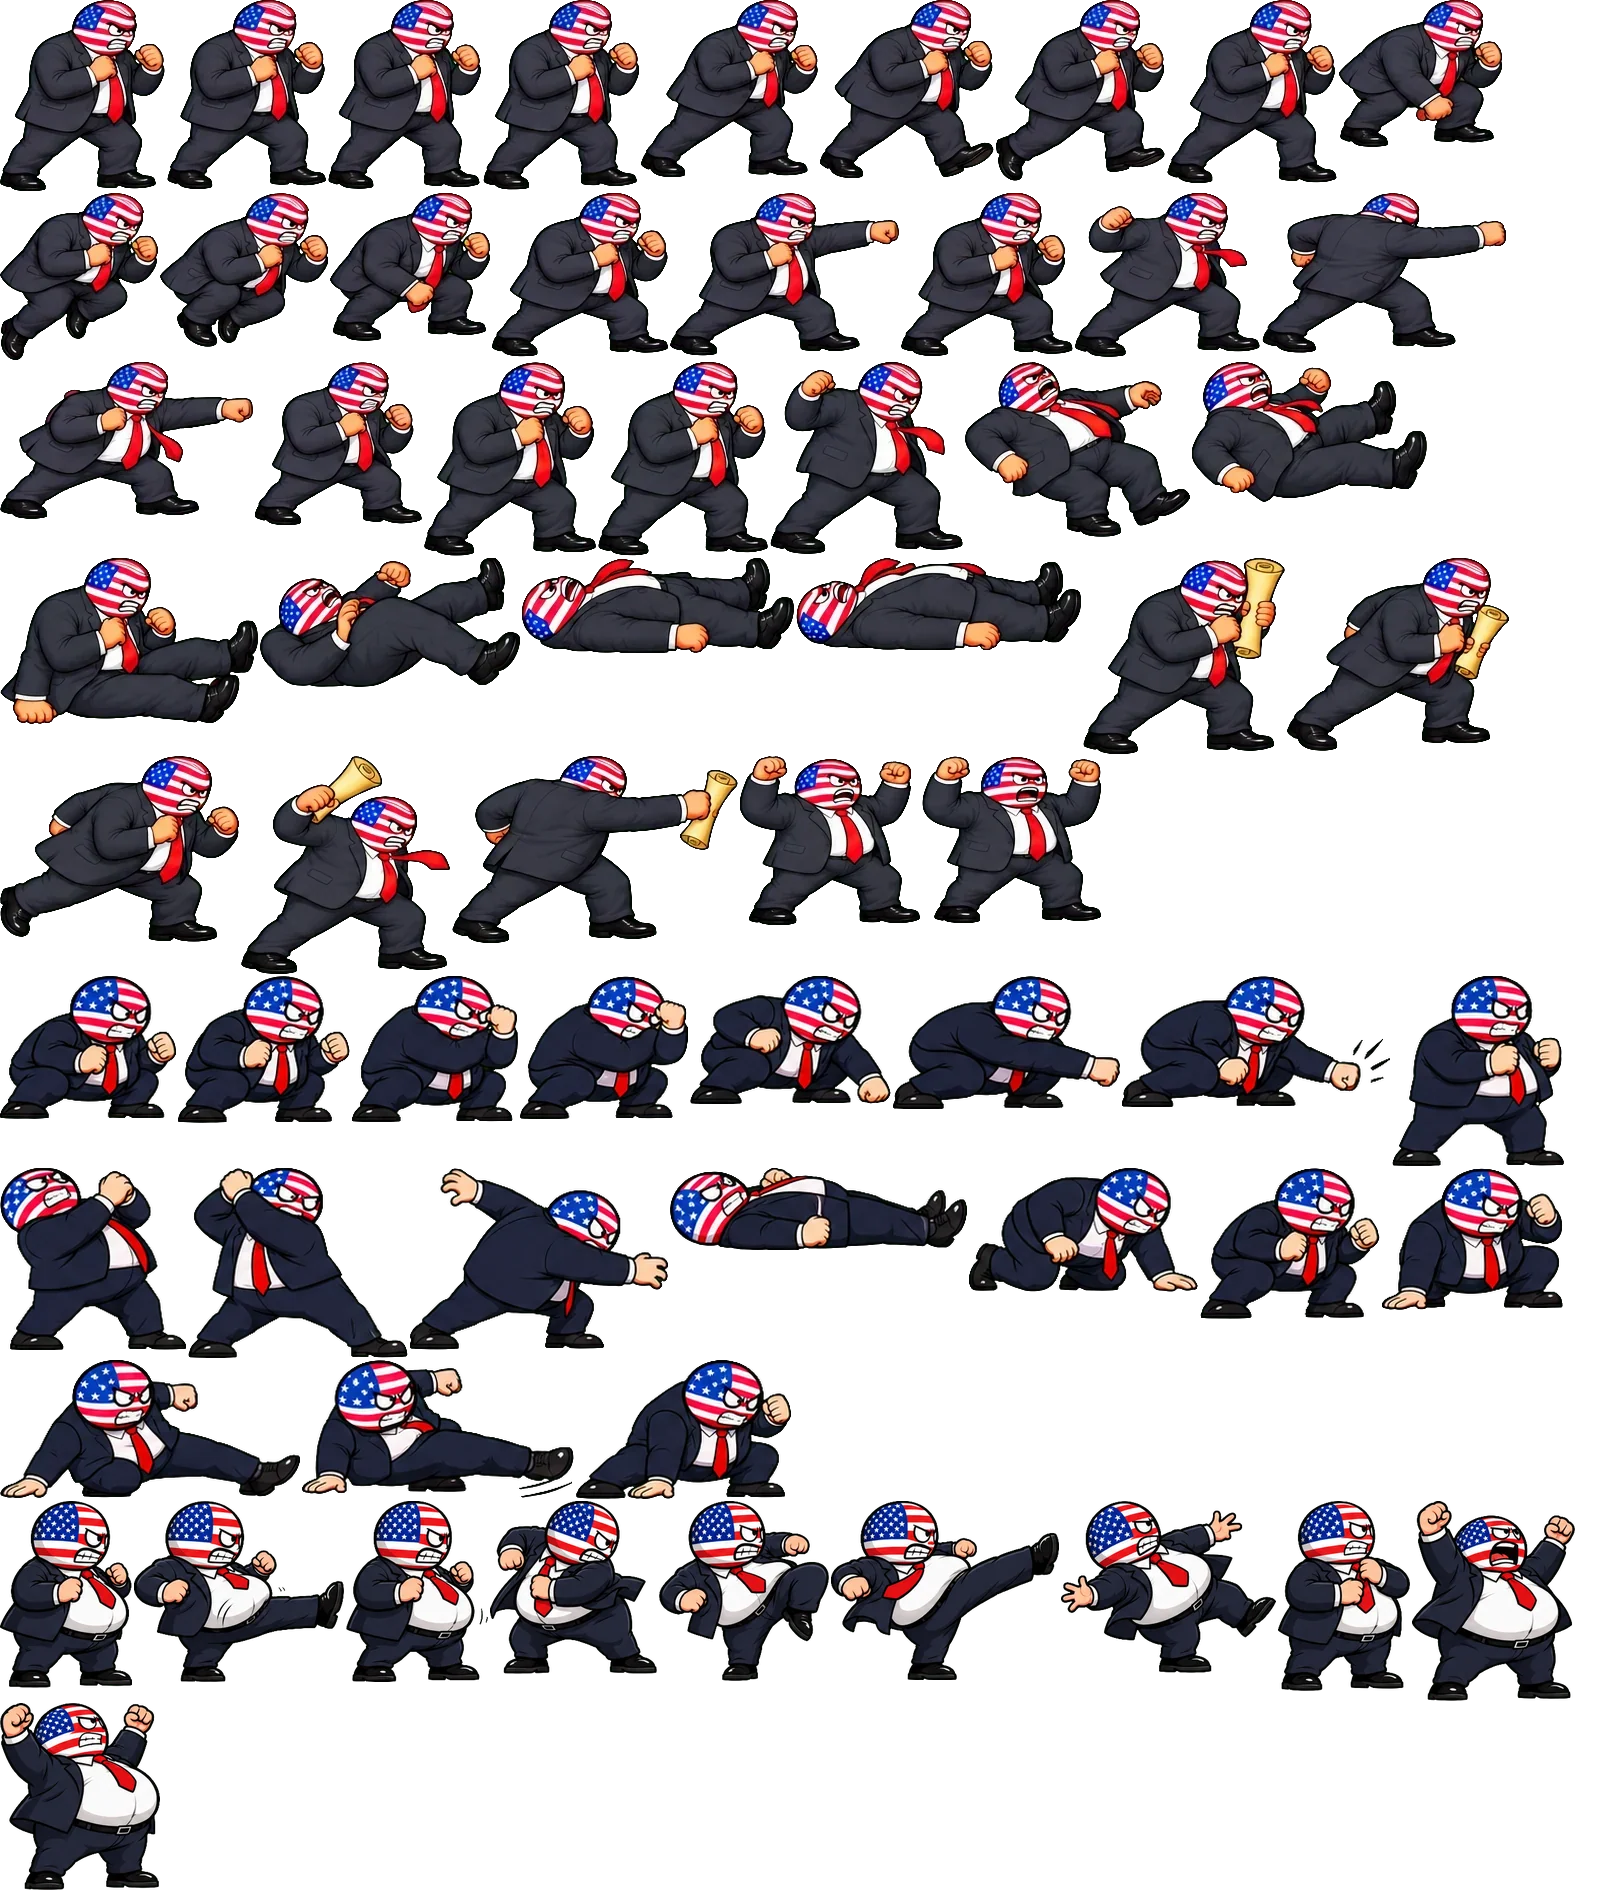
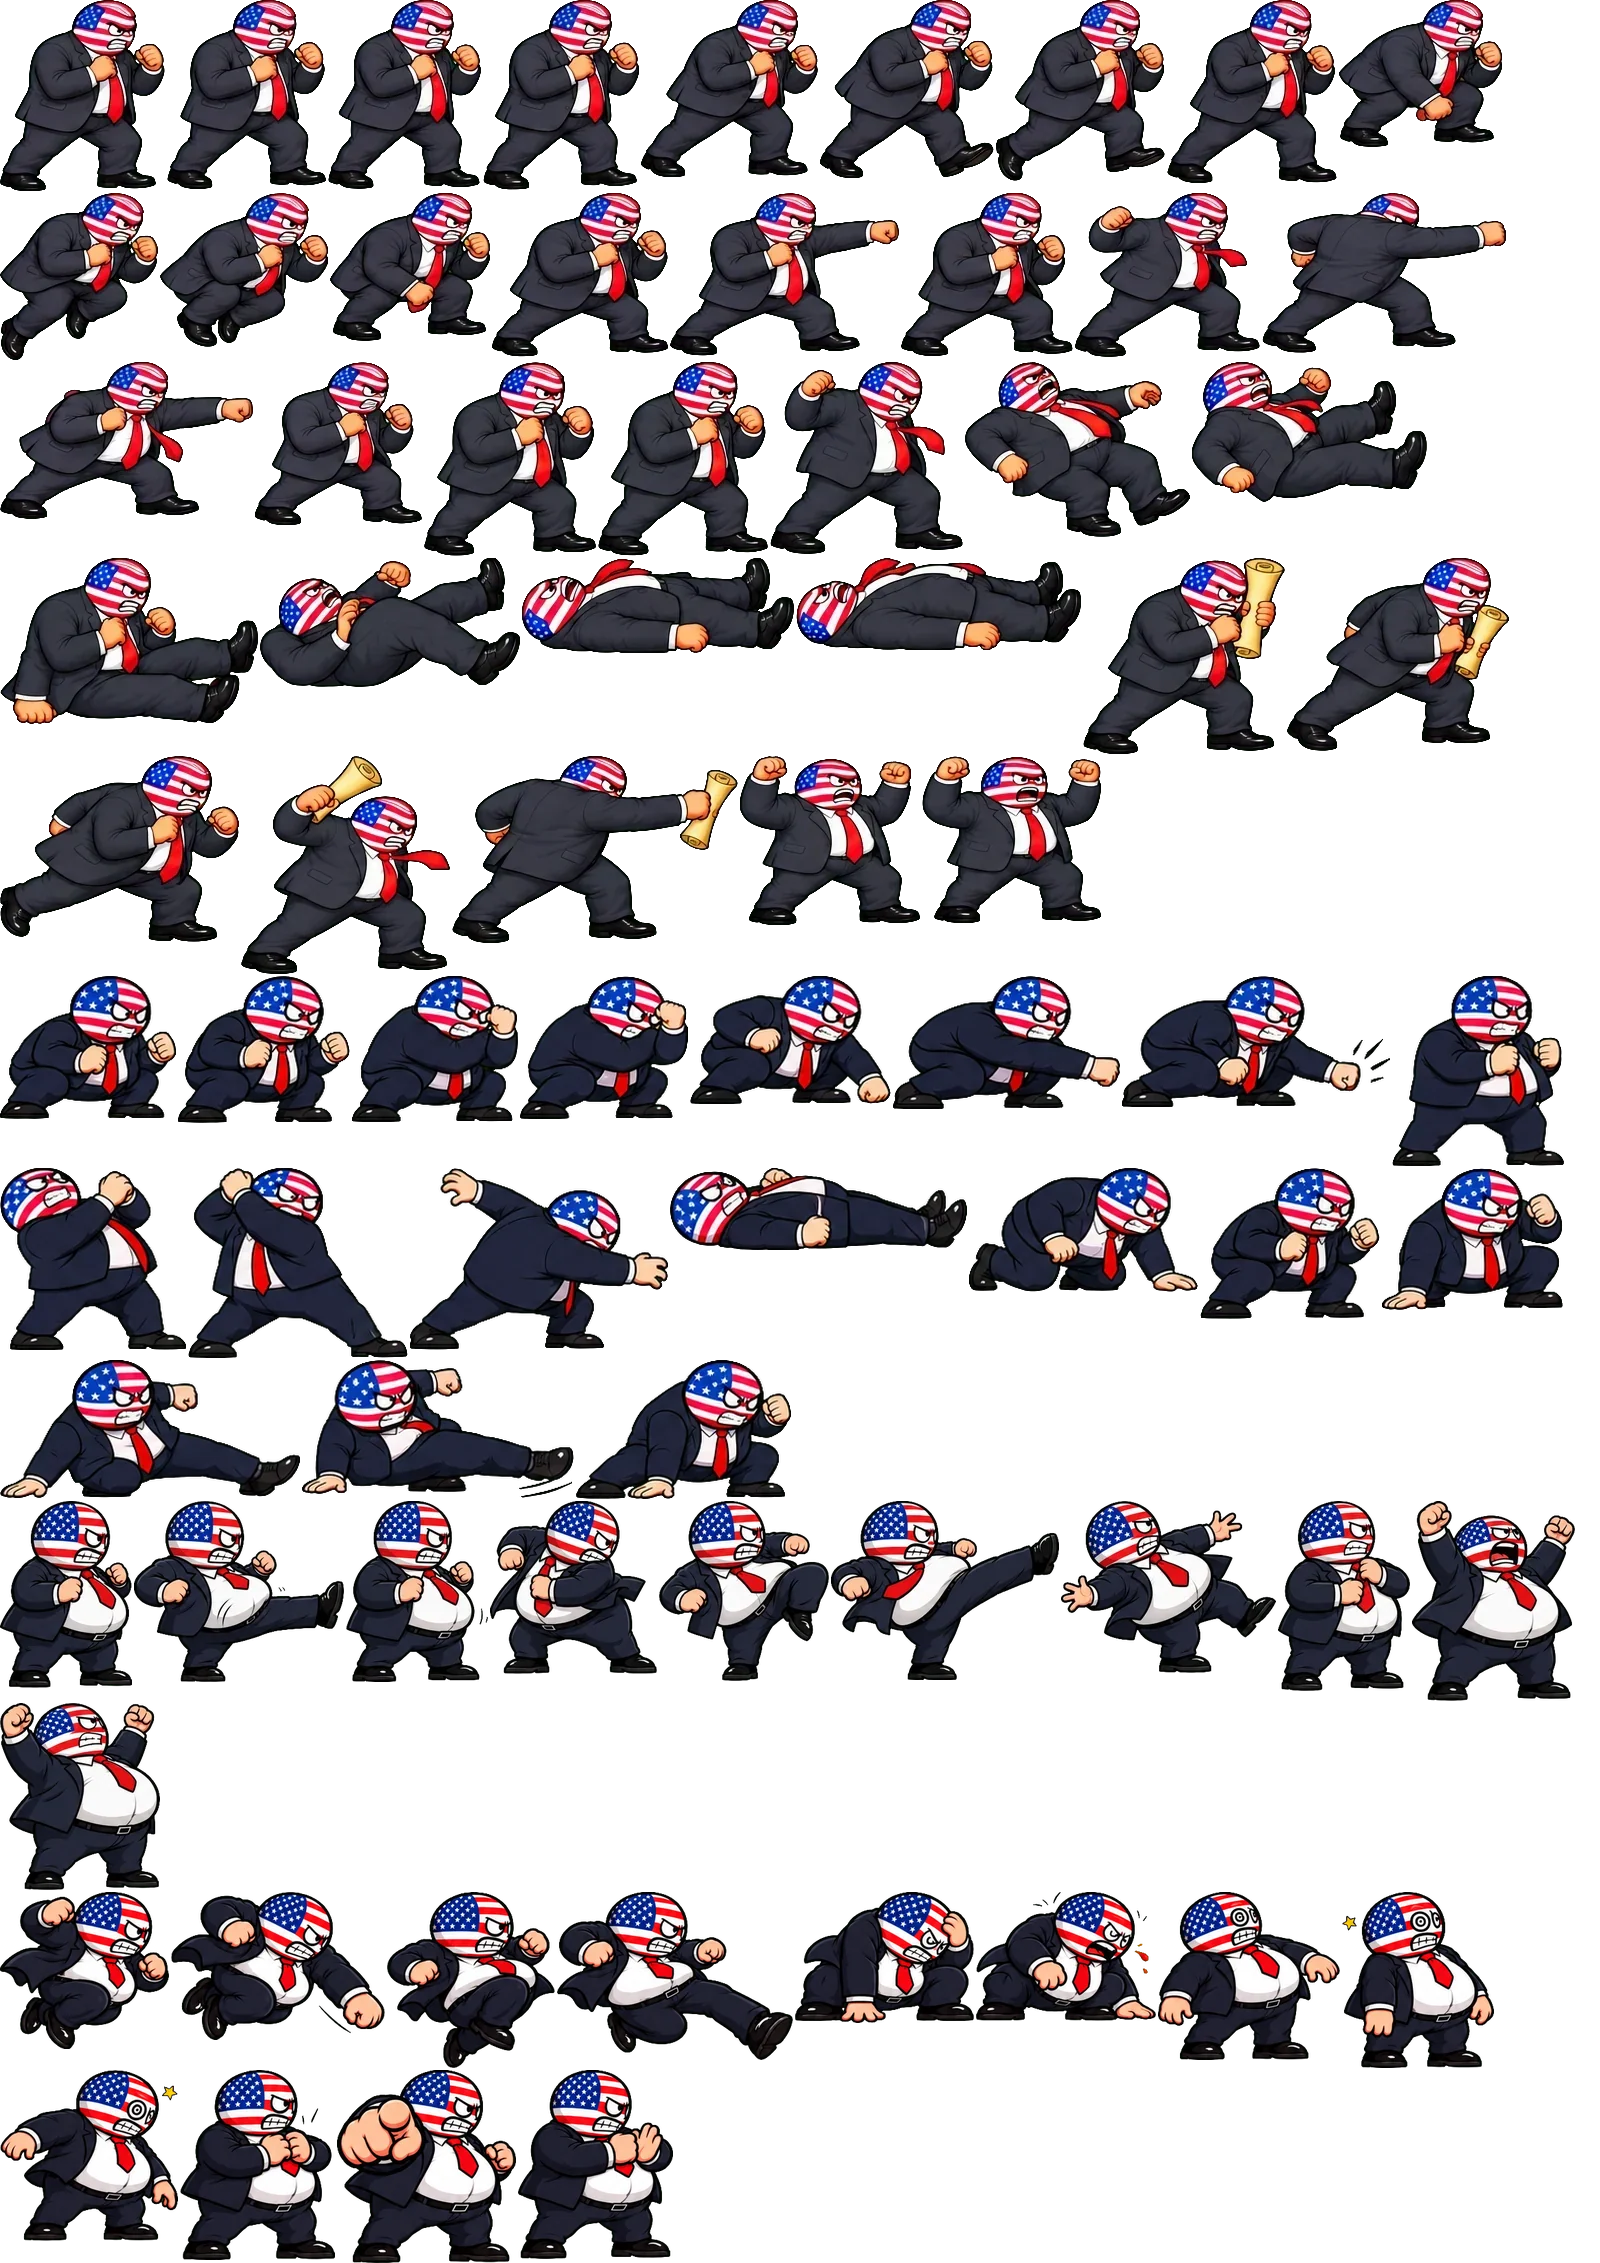
Presidents Brawl: Mister USA jump attacks, crouch hit, dizzy and entrance frames
Claude-Session: https://claude.ai/code/session_01HtMgEDxgy3YeKCDKp7REeJ

diff --git a/brawl/index.html b/brawl/index.html
@@ -583,7 +583,7 @@ function limb(c,a,b,col,w,bend){c.strokeStyle=col;c.lineWidth=w;c.lineCap='round
 
 const SPRITES={};
 function addSprite(id,meta,b64,scale){const img=new Image();const o={img,meta,scale,ok:false};img.onload=()=>{o.ok=true;if(window.__redrawCards)window.__redrawCards()};img.src=b64;SPRITES[id]=o}
-addSprite('usa',{"idle": [[0, 0, 165, 191, 74.1], [167, 0, 159, 189, 74.7], [328, 0, 153, 189, 71.9], [483, 0, 156, 190, 71.9]], "walk": [[641, 0, 177, 177, 81.5], [820, 0, 174, 178, 85.9], [996, 0, 169, 181, 79.5], [1167, 0, 170, 183, 82.2]], "jump": [[1339, 0, 163, 147, 84.9], [0, 193, 158, 167, 77.3], [160, 193, 168, 154, 84.4], [330, 193, 160, 148, 84.0]], "jab": [[492, 193, 176, 164, 83.5], [670, 193, 229, 163, 90.1], [901, 193, 172, 163, 82.0]], "heavy": [[1075, 193, 185, 164, 85.4], [1262, 193, 244, 160, 91.6], [0, 362, 253, 157, 95.8], [255, 362, 167, 163, 79.7]], "block": [[424, 362, 172, 194, 81.1], [598, 362, 170, 194, 80.4]], "hit": [[770, 362, 193, 192, 91.4], [965, 362, 225, 175, 148.0], [1192, 362, 235, 140, 117.5]], "ko": [[0, 558, 258, 166, 129.0], [260, 558, 260, 129, 130.0], [522, 558, 272, 95, 136.0], [796, 558, 285, 92, 142.5]], "super": [[1083, 558, 202, 196, 90.9], [1287, 558, 222, 193, 96.2], [0, 756, 239, 186, 120.8], [241, 756, 209, 218, 97.7], [452, 756, 286, 187, 98.4]], "win": [[1278, 1501, 132, 190, 60.7], [1412, 1501, 163, 200, 84.0], [0, 1703, 160, 187, 88.6]], "crouch": [[0, 976, 176, 143, 81.1], [178, 976, 172, 147, 75.4]], "cblock": [[352, 976, 166, 146, 79.0], [520, 976, 168, 143, 75.1]], "lowp": [[690, 976, 201, 128, 111.9], [893, 976, 227, 133, 126.7], [1122, 976, 268, 131, 128.5]], "grab": [[1392, 976, 172, 190, 96.2], [0, 1168, 186, 182, 71.2], [188, 1168, 220, 190, 74.2], [410, 1168, 258, 182, 115.7]], "getup": [[670, 1168, 297, 82, 134.4], [969, 1168, 229, 124, 114.4], [1200, 1168, 180, 151, 79.9]], "sweep": [[1382, 1168, 181, 142, 105.6], [0, 1360, 300, 138, 126.8], [302, 1360, 272, 138, 93.2], [576, 1360, 215, 139, 142.8]], "lkick": [[0, 1501, 132, 187, 70.2], [134, 1501, 210, 181, 71.3], [346, 1501, 142, 181, 66.4]], "kick": [[490, 1501, 167, 173, 76.9], [659, 1501, 170, 180, 80.3], [831, 1501, 228, 179, 93.5], [1061, 1501, 215, 172, 91.1]]},'img/usa.webp',0.74);
+addSprite('usa',{"idle": [[0, 0, 165, 191, 74.1], [167, 0, 159, 189, 74.7], [328, 0, 153, 189, 71.9], [483, 0, 156, 190, 71.9]], "walk": [[641, 0, 177, 177, 81.5], [820, 0, 174, 178, 85.9], [996, 0, 169, 181, 79.5], [1167, 0, 170, 183, 82.2]], "jump": [[1339, 0, 163, 147, 84.9], [0, 193, 158, 167, 77.3], [160, 193, 168, 154, 84.4], [330, 193, 160, 148, 84.0]], "jab": [[492, 193, 176, 164, 83.5], [670, 193, 229, 163, 90.1], [901, 193, 172, 163, 82.0]], "heavy": [[1075, 193, 185, 164, 85.4], [1262, 193, 244, 160, 91.6], [0, 362, 253, 157, 95.8], [255, 362, 167, 163, 79.7]], "block": [[424, 362, 172, 194, 81.1], [598, 362, 170, 194, 80.4]], "hit": [[770, 362, 193, 192, 91.4], [965, 362, 225, 175, 148.0], [1192, 362, 235, 140, 117.5]], "ko": [[0, 558, 258, 166, 129.0], [260, 558, 260, 129, 130.0], [522, 558, 272, 95, 136.0], [796, 558, 285, 92, 142.5]], "super": [[1083, 558, 202, 196, 90.9], [1287, 558, 222, 193, 96.2], [0, 756, 239, 186, 120.8], [241, 756, 209, 218, 97.7], [452, 756, 286, 187, 98.4]], "win": [[1278, 1501, 132, 190, 60.7], [1412, 1501, 163, 200, 84.0], [0, 1703, 160, 187, 88.6]], "crouch": [[0, 976, 176, 143, 81.1], [178, 976, 172, 147, 75.4]], "cblock": [[352, 976, 166, 146, 79.0], [520, 976, 168, 143, 75.1]], "lowp": [[690, 976, 201, 128, 111.9], [893, 976, 227, 133, 126.7], [1122, 976, 268, 131, 128.5]], "grab": [[1392, 976, 172, 190, 96.2], [0, 1168, 186, 182, 71.2], [188, 1168, 220, 190, 74.2], [410, 1168, 258, 182, 115.7]], "getup": [[670, 1168, 297, 82, 134.4], [969, 1168, 229, 124, 114.4], [1200, 1168, 180, 151, 79.9]], "sweep": [[1382, 1168, 181, 142, 105.6], [0, 1360, 300, 138, 126.8], [302, 1360, 272, 138, 93.2], [576, 1360, 215, 139, 142.8]], "lkick": [[0, 1501, 132, 187, 70.2], [134, 1501, 210, 181, 71.3], [346, 1501, 142, 181, 66.4]], "kick": [[490, 1501, 167, 173, 76.9], [659, 1501, 170, 180, 80.3], [831, 1501, 228, 179, 93.5], [1061, 1501, 215, 172, 91.1]], "airp": [[0, 1892, 169, 157, 83.8], [171, 1892, 214, 148, 98.9]], "airk": [[387, 1892, 168, 176, 84.8], [557, 1892, 236, 168, 102.1]], "chit": [[795, 1892, 179, 131, 85.7], [976, 1892, 180, 129, 89.0]], "dizzy": [[1158, 1892, 182, 168, 83.6], [1342, 1892, 152, 176, 76.4], [0, 2070, 178, 171, 90.9]], "intro": [[180, 2070, 155, 190, 75.9], [337, 2070, 179, 193, 91.3], [518, 2070, 155, 189, 74.6]]},'img/usa.webp',0.74);
 addSprite('rus',{"idle": [[0, 0, 139, 152, 60.3], [141, 0, 134, 152, 59.1], [277, 0, 137, 152, 59.0], [416, 0, 126, 153, 40.9]], "walk": [[544, 0, 138, 152, 60.2], [684, 0, 136, 152, 58.6], [822, 0, 138, 153, 57.9], [962, 0, 147, 153, 67.7]], "jump": [[1111, 0, 140, 136, 75.8], [1253, 0, 142, 147, 68.6], [1397, 0, 130, 137, 64.2], [0, 155, 124, 144, 52.0]], "jab": [[126, 155, 148, 152, 60.6], [276, 155, 170, 152, 66.5], [448, 155, 153, 151, 71.2]], "block": [[338, 310, 102, 159, 46.8], [442, 310, 125, 159, 58.4]], "hit": [[569, 310, 140, 150, 79.3], [711, 310, 181, 137, 120.5], [894, 310, 175, 144, 100.4]], "ko": [[1071, 310, 214, 98, 97.4], [1287, 310, 209, 82, 93.8], [0, 478, 226, 59, 102.5], [228, 478, 226, 59, 102.5]], "super": [[400, 851, 199, 156, 100.4], [602, 478, 190, 152, 114.6], [794, 478, 168, 140, 88.2], [964, 478, 199, 166, 100.2], [1165, 478, 175, 184, 73.1], [1342, 478, 221, 181, 94.1]], "win": [[0, 664, 107, 185, 51.3], [109, 664, 103, 185, 48.0], [214, 664, 104, 185, 49.2]], "sweep": [[603, 155, 156, 135, 68.6], [761, 155, 176, 139, 76.9], [939, 155, 157, 139, 92.6], [1098, 155, 125, 140, 69.7]], "kick": [[1225, 155, 168, 153, 72.5], [1395, 155, 140, 150, 64.9], [0, 310, 130, 119, 55.9], [132, 310, 204, 166, 120.8]], "crouch": [[0, 1009, 204, 142, 88.9], [206, 1009, 213, 143, 91.6]], "cblock": [[421, 1009, 178, 135, 72.1], [601, 1009, 157, 138, 68.3]], "lowp": [[760, 1009, 242, 115, 123.5], [1004, 1009, 255, 107, 128.0], [1261, 1009, 245, 114, 135.6]], "grab": [[0, 1154, 208, 152, 125.4], [210, 1154, 171, 147, 116.8], [383, 1154, 168, 148, 98.8], [553, 1154, 278, 145, 153.5]], "getup": [[833, 1154, 280, 86, 133.8], [1115, 1154, 188, 122, 95.7], [1305, 1154, 198, 145, 87.5]]},'img/rus.webp',0.91);
 addSprite('tur',{"idle": [[0, 0, 139, 173, 66.9], [141, 0, 140, 174, 68.7], [283, 0, 139, 176, 67.0], [424, 0, 139, 173, 66.9]], "walk": [[565, 0, 163, 176, 87.3], [730, 0, 137, 177, 68.9], [869, 0, 172, 176, 70.7]], "jump": [[1043, 0, 125, 188, 66.2], [1170, 0, 169, 180, 75.5], [1341, 0, 125, 188, 66.2], [1468, 0, 125, 188, 66.2]], "jab": [[0, 190, 201, 174, 80.2], [203, 190, 263, 173, 97.6], [468, 190, 201, 174, 80.2]], "kick": [[671, 190, 158, 187, 78.6], [831, 190, 143, 180, 34.7], [976, 190, 177, 177, 56.1], [1155, 190, 158, 187, 78.6]], "block": [[1315, 190, 154, 177, 74.0], [0, 379, 149, 183, 69.4]], "hit": [[151, 379, 152, 192, 82.2], [305, 379, 191, 192, 110.1], [498, 379, 156, 174, 74.1]], "ko": [[656, 379, 220, 129, 92.4], [878, 379, 239, 108, 100.3], [1119, 379, 230, 98, 102.4], [0, 573, 258, 58, 117.5]], "super": [[260, 573, 192, 215, 13.6], [454, 573, 215, 207, 117.9], [671, 573, 160, 220, 29.6], [833, 573, 192, 224, 91.6], [1027, 573, 211, 216, 92.8], [1240, 573, 172, 200, 78.8]], "win": [[1414, 573, 104, 210, 48.7], [0, 799, 111, 219, 57.1], [113, 799, 120, 225, 63.1]], "crouch": [[0, 1026, 200, 153, 96.0], [202, 1026, 188, 152, 93.2]], "cblock": [[392, 1026, 187, 151, 80.6], [581, 1026, 166, 153, 74.7]], "lowp": [[749, 1026, 245, 117, 156.5], [996, 1026, 243, 113, 119.6], [1241, 1026, 213, 121, 111.4]], "grab": [[0, 1181, 218, 174, 121.9], [220, 1181, 198, 175, 73.7], [420, 1181, 179, 182, 55.6], [601, 1181, 177, 188, 71.7], [780, 1181, 274, 150, 151.4]], "getup": [[1056, 1181, 279, 88, 137.8], [1337, 1181, 197, 102, 101.2], [0, 1371, 198, 105, 105.6], [200, 1371, 179, 115, 102.8]], "sweep": [[381, 1371, 226, 122, 93.9], [609, 1371, 263, 117, 71.5], [874, 1371, 223, 118, 64.8], [1099, 1371, 233, 119, 85.8], [1334, 1371, 173, 128, 80.4]]},'img/tur.webp',0.94);
 addSprite('ukr',{"idle": [[0, 0, 149, 218, 71.3], [151, 0, 147, 218, 69.4], [300, 0, 151, 213, 71.6], [453, 0, 143, 218, 65.8]], "walk": [[598, 0, 160, 233, 76.9], [760, 0, 164, 233, 80.2], [926, 0, 169, 232, 83.2], [1097, 0, 168, 233, 81.0]], "jump": [[1267, 0, 150, 170, 79.9], [1419, 0, 172, 215, 86.2], [0, 235, 130, 196, 54.5], [132, 235, 148, 183, 65.7]], "jab": [[282, 235, 169, 220, 82.6], [453, 235, 224, 221, 88.1], [679, 235, 165, 221, 80.0]], "heavy": [[846, 235, 192, 218, 95.6], [1040, 235, 233, 221, 92.3], [1275, 235, 249, 221, 97.6], [0, 458, 180, 214, 88.0]], "kick": [[182, 458, 125, 213, 50.0], [309, 458, 231, 202, 66.9], [542, 458, 239, 202, 76.3], [783, 458, 144, 204, 59.7]], "block": [[929, 458, 181, 234, 83.0], [1112, 458, 173, 235, 80.9]], "hit": [[1287, 458, 222, 213, 110.2], [0, 695, 201, 212, 95.1], [203, 695, 206, 214, 109.3]], "ko": [[411, 695, 226, 179, 98.6], [639, 695, 296, 164, 138.8], [937, 695, 304, 110, 145.5], [1243, 695, 269, 87, 123.3]], "super": [[0, 911, 210, 241, 50.2], [212, 911, 301, 289, 152.1], [515, 911, 262, 261, 73.5], [779, 911, 270, 256, 142.3], [1051, 911, 202, 255, 65.4], [1255, 911, 235, 199, 109.6]], "win": [[0, 1202, 178, 267, 86.3], [180, 1202, 171, 235, 84.3], [353, 1202, 142, 239, 67.9]], "crouch": [[0, 1471, 226, 200, 113.9], [228, 1471, 226, 200, 112.5]], "cblock": [[456, 1471, 219, 197, 102.0], [677, 1471, 214, 197, 100.2]], "lowp": [[893, 1471, 254, 174, 165.3], [1149, 1471, 333, 169, 191.6], [0, 1673, 295, 175, 149.0]], "grab": [[297, 1673, 254, 217, 151.4], [553, 1673, 236, 219, 86.3], [791, 1673, 230, 237, 68.5], [1023, 1673, 294, 200, 178.1]], "getup": [[0, 1912, 338, 115, 163.2], [340, 1912, 236, 178, 113.9], [578, 1912, 253, 189, 127.6]], "sweep": [[833, 1912, 234, 156, 140.3], [1069, 1912, 278, 153, 104.6], [0, 2103, 272, 160, 59.2], [274, 2103, 275, 160, 108.9]]},'img/ukr.webp',0.64);
